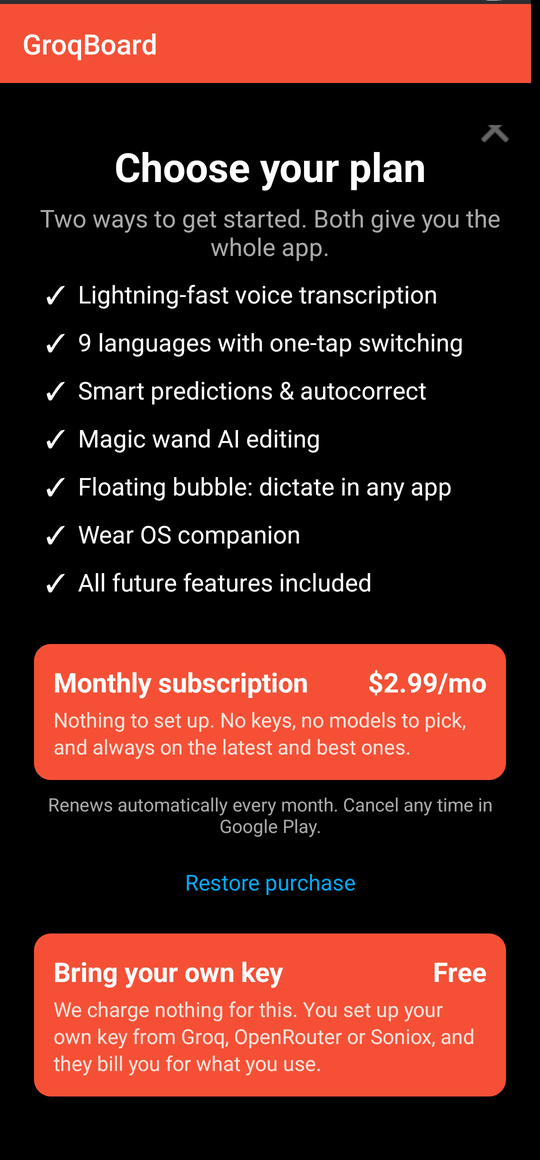
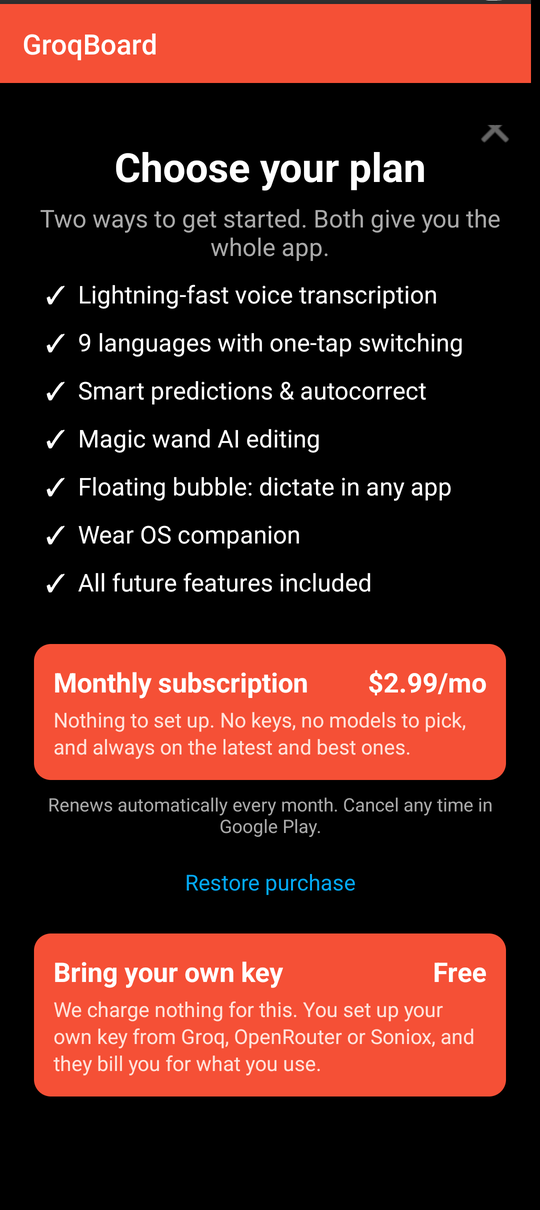
El paywall dejaba una franja bajo la imagen, y el navegador servia la vieja
Dos causas distintas para un mismo "no se ve bien", y solo se separaron al
medir el tile en vivo en vez de mirar el archivo.

La primera: la galeria estira todos los tiles a la altura del mas alto. Las
cinco capturas del Fold son 1080x2420; esta viene del A53, que es 100 px mas
corto, asi que la imagen ocupaba 430 de un tile de 448 y quedaba una franja
de 18 px dentro del marco. Se rellena con negro hasta igualar, que es ademas
lo que Alex pedia: negro hasta abajo.

La segunda: el archivo cambio pero la URL seguia diciendo ?v=11, asi que
navegadores y CDN seguian entregando la version anterior. Por eso la captura
que el veia seguia teniendo la tarjeta cortada y el pie de Terms, aunque el
archivo publicado ya era el bueno y su hash coincidia. Sube a ?v=12 en las
seis, que es lo unico que los obliga a soltar la copia.

Changed region(s): [[0.0593, 0.1241, 0.9481, 0.9621], [0.0, 0.031, 0.9778, 0.1241]]

diff --git a/index.html b/index.html
@@ -2708,22 +2708,22 @@
                 </div>
             </div>
             <div class="screenshot-item phone">
-                <img src="pic_v11_2_voice_keyboard.png?v=11" alt="GroqBoard voice keyboard: one big dictation button, magic wand and one-tap language switching">
+                <img src="pic_v11_2_voice_keyboard.png?v=12" alt="GroqBoard voice keyboard: one big dictation button, magic wand and one-tap language switching">
             </div>
             <div class="screenshot-item phone">
-                <img src="pic_v11_4_smart_actions.png?v=11" alt="GroqBoard Smart Actions: fix grammar, improve or formalize the text you just wrote">
+                <img src="pic_v11_4_smart_actions.png?v=12" alt="GroqBoard Smart Actions: fix grammar, improve or formalize the text you just wrote">
             </div>
             <div class="screenshot-item phone">
-                <img src="pic_v11_1_fixed_button.png?v=11" alt="GroqBoard dictation button docked on the top row of Microsoft SwiftKey">
+                <img src="pic_v11_1_fixed_button.png?v=12" alt="GroqBoard dictation button docked on the top row of Microsoft SwiftKey">
             </div>
             <div class="screenshot-item phone">
-                <img src="pic_v11_3_predictions.png?v=11" alt="GroqBoard full QWERTY keyboard with AI next-word prediction chips">
+                <img src="pic_v11_3_predictions.png?v=12" alt="GroqBoard full QWERTY keyboard with AI next-word prediction chips">
             </div>
             <div class="screenshot-item phone">
-                <img src="pic_v11_6_paywall.png?v=11" alt="GroqBoard plan chooser: free with your own API key, or a monthly plan with the key included">
+                <img src="pic_v11_6_paywall.png?v=12" alt="GroqBoard plan chooser: free with your own API key, or a monthly plan with the key included">
             </div>
             <div class="screenshot-item phone">
-                <img src="pic_v11_5_settings.png?v=11" alt="GroqBoard settings on the monthly plan: no keys and no models to pick">
+                <img src="pic_v11_5_settings.png?v=12" alt="GroqBoard settings on the monthly plan: no keys and no models to pick">
             </div>
             <div class="screenshot-item keyboard">
                 <img src="zoom.png" alt="GroqBoard keyboard layout close-up">
